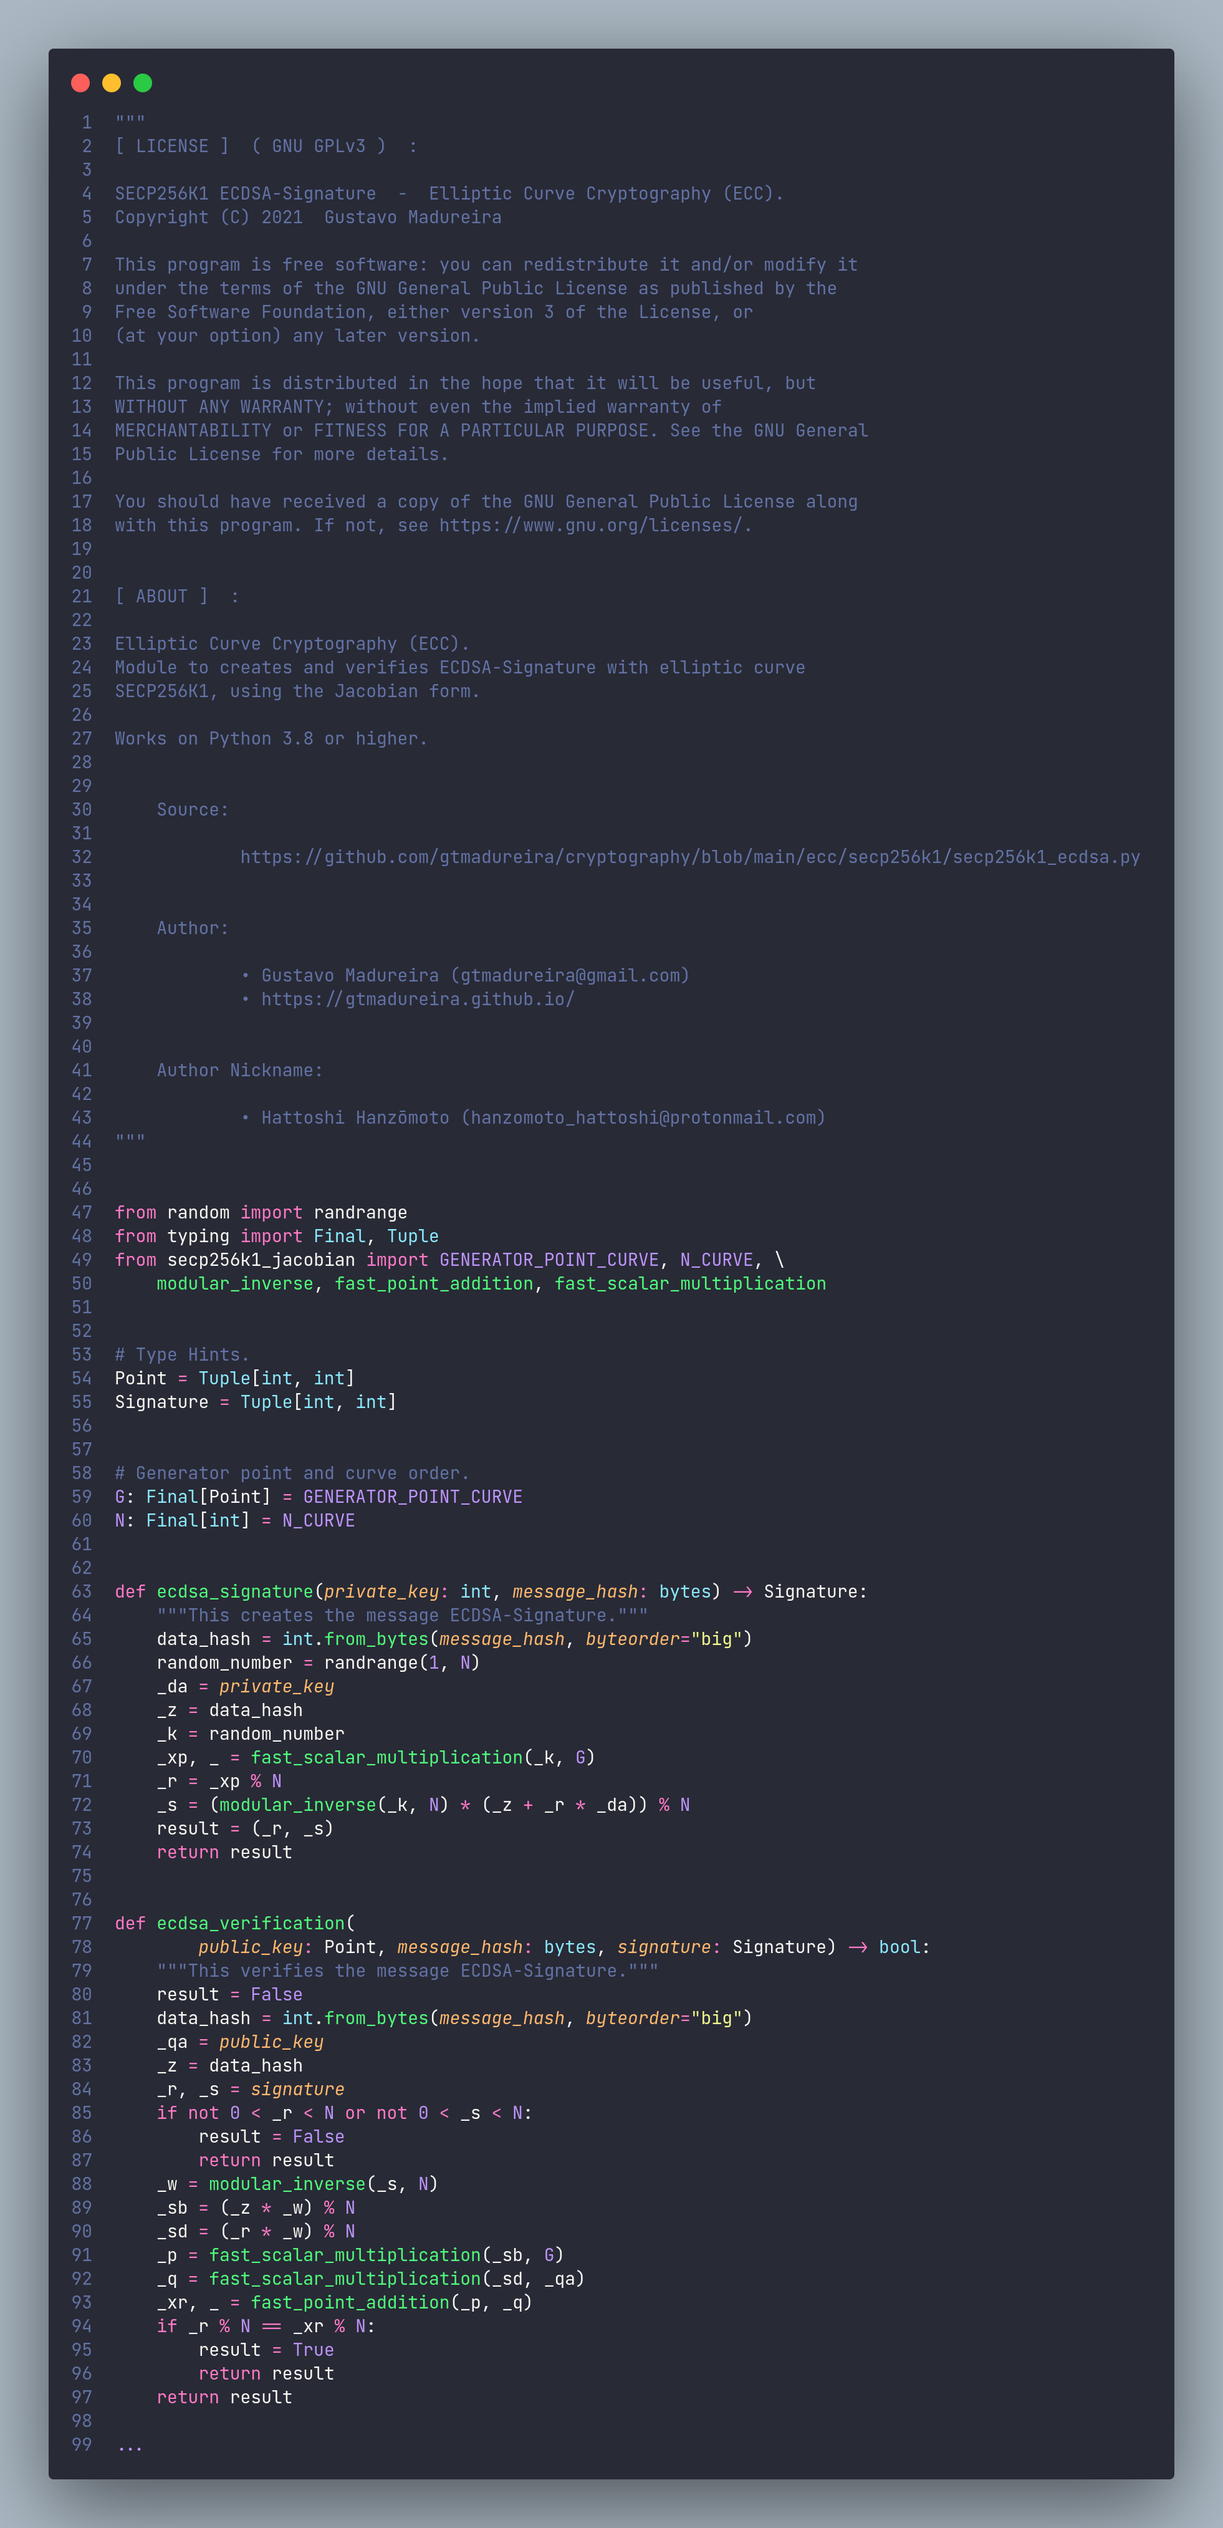
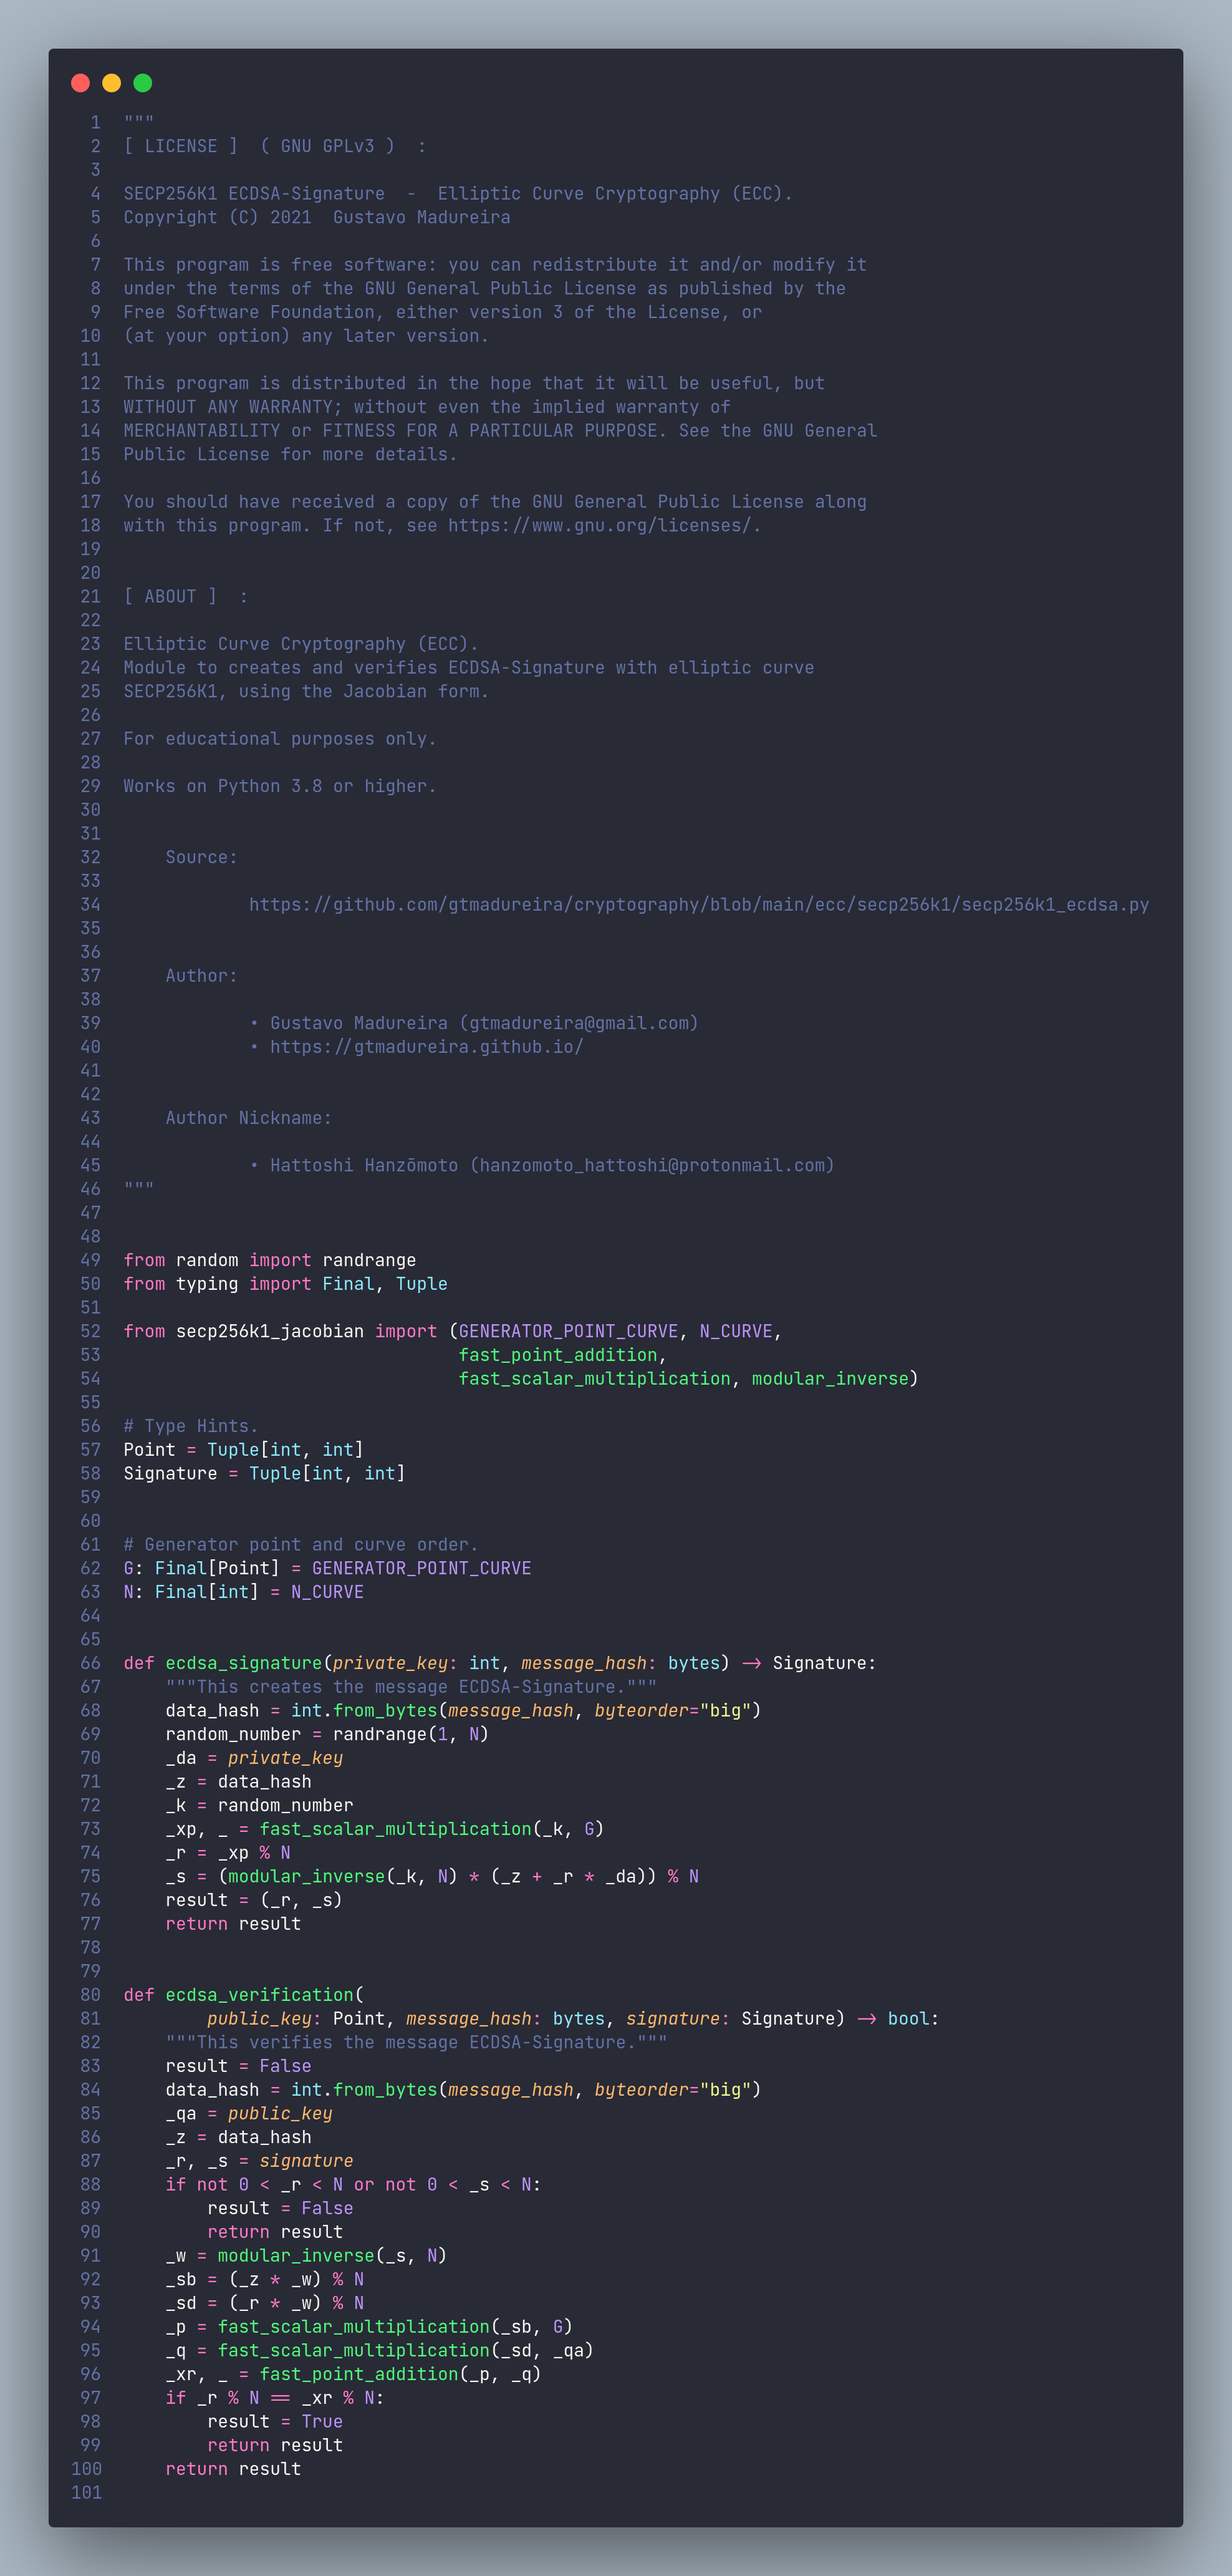
Elliptic Curve Cryptography (ECC), with curve secp256k1.

diff --git a/ecc/secp256k1/secp256k1_jacobian.py b/ecc/secp256k1/secp256k1_jacobian.py
@@ -31,6 +31,8 @@ the Jacobian form.
 
 (Curve used in cryptocurrencies such as Bitcoin, Ethereum, etc...)
 
+For educational purposes only.
+
 Works on Python 3.8 or higher.
 
 
@@ -52,7 +54,6 @@ Works on Python 3.8 or higher.
 
 
 from typing import Final, Tuple
-
 
 # Type Hints.
 Point = Tuple[int, int]
@@ -125,7 +126,8 @@ def is_infinite(point: Point) -> bool:
     Returns True if the point is at infinity on the elliptic curve,
     otherwise it returns False.
     """
-    result = point == POINT_INFINITY_CURVE or 0 in point
+    _xp, _ = point
+    result = point == POINT_INFINITY_CURVE or _xp == 0
     return result
 
 
@@ -185,8 +187,9 @@ def is_infinite_jacobian(jacobian: JacobianCoordinate) -> bool:
     Returns True if the point is at infinity on the elliptic curve over
     Jacobian coordinate, otherwise it returns False.
     """
-    _, _, _zp = jacobian
-    result = jacobian == POINT_INFINITY_JACOBIAN or _zp == 0
+    _xp, _yp, _zp = jacobian
+    result = jacobian == POINT_INFINITY_JACOBIAN or _zp == 0 and 0 not in (
+        _xp, _yp)
     return result
 
 
@@ -425,6 +428,7 @@ def jacobian_point_addition_mixed(  # pylint: disable=R0914
     """
     assert is_on_curve_jacobian(jacobian_p)
     assert is_on_curve_jacobian(jacobian_q)
+    assert not is_affine_jacobian(jacobian_p)
     assert is_affine_jacobian(jacobian_q)
     _xp, _yp, _zp = jacobian_p
     _xq, _yq, _ = jacobian_q
@@ -455,7 +459,7 @@ def jacobian_point_addition_mixed(  # pylint: disable=R0914
     return result
 
 
-def jacobian_point_addition(  # pylint: disable=R0914, R0911
+def jacobian_point_addition(  # pylint: disable=R0911, R0914, R0915
         jacobian_p: JacobianCoordinate,
         jacobian_q: JacobianCoordinate) -> JacobianCoordinate:
     """
@@ -469,6 +473,11 @@ def jacobian_point_addition(  # pylint: disable=R0914, R0911
     """
     assert is_on_curve_jacobian(jacobian_p)
     assert is_on_curve_jacobian(jacobian_q)
+    if is_infinite_jacobian(jacobian_p) and is_infinite_jacobian(jacobian_q):
+        jacobian_r = POINT_INFINITY_JACOBIAN
+        result = jacobian_r
+        assert is_on_curve_jacobian(result)
+        return result
     if is_infinite_jacobian(jacobian_p):
         jacobian_r = jacobian_q
         result = jacobian_r
@@ -538,6 +547,11 @@ def fast_point_addition(point_p: Point, point_q: Point) -> Point:
     """
     assert is_on_curve(point_p)
     assert is_on_curve(point_q)
+    if is_infinite(point_p) and is_infinite(point_q):
+        point_r = POINT_INFINITY_CURVE
+        result = point_r
+        assert is_on_curve(result)
+        return result
     if is_infinite(point_p):
         point_r = point_q
         result = point_r
@@ -548,7 +562,7 @@ def fast_point_addition(point_p: Point, point_q: Point) -> Point:
         return result
     jacobian_p = to_jacobian(point_p)
     jacobian_q = to_jacobian(point_q)
-    jacobian_r = jacobian_point_addition(jacobian_p, jacobian_q)
+    jacobian_r = jacobian_point_addition_affined_only(jacobian_p, jacobian_q)
     point_r = from_jacobian(jacobian_r)
     result = point_r
     assert is_on_curve(result)
@@ -565,6 +579,8 @@ def fast_scalar_multiplication(scalar: int, point: Point) -> Point:
     - Point is defined as Jacobian and Current is defined as
     New-Point.
     """
+    # *     [ SCALAR VERIFICATION ]
+
     assert is_on_curve(point)
     if scalar in (0, N_CURVE) or is_infinite(point):
         new_point = POINT_INFINITY_CURVE
@@ -579,6 +595,8 @@ def fast_scalar_multiplication(scalar: int, point: Point) -> Point:
         result = new_point
         return result
 
+    # *     [ SCALAR PREPARATION ]
+
     # *  -> The next variable below, will be assigned from the convert
     # *     the scalar (represented as an integer) to string objects as
     # *     bits ("0" or "1"), and store them inside a
@@ -589,6 +607,8 @@ def fast_scalar_multiplication(scalar: int, point: Point) -> Point:
 
     jacobian = to_jacobian(point)
     current = jacobian
+
+    # *     [ SCALAR MULTIPLICATION ]
 
     # *  -> For-Loop below, working from left-to-right.
     # *  -> "AND IGNORING" the Most Significant Bit (MSB) from incoming
@@ -613,11 +633,16 @@ if __name__ == "__main__":
         assert (4 * pow(A_CURVE, 3, FP_CURVE) + 27 *
                 pow(B_CURVE, 2, FP_CURVE)) % FP_CURVE != 0
 
+        # Tests if the generator point lies on the elliptic curve.
+        assert is_on_curve(GENERATOR_POINT_CURVE)
+
         # Elliptic curve scalar multiplication test.
-        from os import name as system_type, system as run_command
-        from time import perf_counter
+        from os import name as system_type
+        from os import system as run_command
         from random import randrange
-        from colorama import just_fix_windows_console  # type: ignore
+        from time import perf_counter
+
+        from colorama import just_fix_windows_console
 
         # Define clear_screen function.
         def clear_screen() -> None:
@@ -661,7 +686,7 @@ if __name__ == "__main__":
             This is free software, and you are welcome to redistribute it
             under certain conditions.
 
-            \33[1;7m *** FOR EDUCATIONAL PURPOSES ONLY *** \033[0m
+            \33[1;7m[ *** FOR EDUCATIONAL PURPOSES ONLY *** ]\033[0m
 
 
                \033[92mPoint Number: {data[0]}

diff --git a/ecc/secp256k1/secp256k1_weierstrass.py b/ecc/secp256k1/secp256k1_weierstrass.py
@@ -31,6 +31,8 @@ the Weierstrass form.
 
 (Curve used in cryptocurrencies such as Bitcoin, Ethereum, etc...)
 
+For educational purposes only.
+
 Works on Python 3.8 or higher.
 
 
@@ -52,7 +54,6 @@ Works on Python 3.8 or higher.
 
 
 from typing import Final, Tuple
-
 
 # Type Hints.
 Point = Tuple[int, int]
@@ -119,7 +120,8 @@ def is_infinite(point: Point) -> bool:
     Returns True if the point is at infinity on the elliptic curve,
     otherwise it returns False.
     """
-    result = point == POINT_INFINITY_CURVE or 0 in point
+    _xp, _ = point
+    result = point == POINT_INFINITY_CURVE or _xp == 0
     return result
 
 
@@ -205,6 +207,11 @@ def ec_point_addition(point_p: Point, point_q: Point) -> Point:
     """
     assert is_on_curve(point_p)
     assert is_on_curve(point_q)
+    if is_infinite(point_p) and is_infinite(point_q):
+        point_r = POINT_INFINITY_CURVE
+        result = point_r
+        assert is_on_curve(result)
+        return result
     if is_infinite(point_p):
         point_r = point_q
         result = point_r
@@ -242,6 +249,8 @@ def ec_point_multiplication(scalar: int, point: Point) -> Point:
     - Point-P is defined as Point and Point-Q is defined as
     Current.
     """
+    # *     [ SCALAR VERIFICATION ]
+
     assert is_on_curve(point)
     if scalar in (0, N_CURVE) or is_infinite(point):
         new_point = POINT_INFINITY_CURVE
@@ -256,6 +265,8 @@ def ec_point_multiplication(scalar: int, point: Point) -> Point:
         result = new_point
         return result
 
+    # *     [ SCALAR PREPARATION ]
+
     # *  -> The next variable below, will be assigned from the convert
     # *     the scalar (represented as an integer) to string objects as
     # *     bits ("0" or "1"), and store them inside a
@@ -265,6 +276,8 @@ def ec_point_multiplication(scalar: int, point: Point) -> Point:
     scalar_bits: Final[ScalarBinary] = tuple(bin(scalar)[2:])
 
     current = point
+
+    # *     [ SCALAR MULTIPLICATION ]
 
     # *  -> For-Loop below, working from left-to-right.
     # *  -> "AND IGNORING" the Most Significant Bit (MSB) from incoming
@@ -289,11 +302,16 @@ if __name__ == "__main__":
         assert (4 * pow(A_CURVE, 3, FP_CURVE) + 27 *
                 pow(B_CURVE, 2, FP_CURVE)) % FP_CURVE != 0
 
+        # Tests if the generator point lies on the elliptic curve.
+        assert is_on_curve(GENERATOR_POINT_CURVE)
+
         # Elliptic curve scalar multiplication test.
-        from os import name as system_type, system as run_command
-        from time import perf_counter
+        from os import name as system_type
+        from os import system as run_command
         from random import randrange
-        from colorama import just_fix_windows_console  # type: ignore
+        from time import perf_counter
+
+        from colorama import just_fix_windows_console
 
         # Define clear_screen function.
         def clear_screen() -> None:
@@ -337,7 +355,7 @@ if __name__ == "__main__":
            This is free software, and you are welcome to redistribute it
            under certain conditions.
 
-           \33[1;7m *** FOR EDUCATIONAL PURPOSES ONLY *** \033[0m
+           \33[1;7m[ *** FOR EDUCATIONAL PURPOSES ONLY *** ]\033[0m
 
 
               \033[92mPoint Number: {data[0]}

diff --git a/ecc/secp256k1/secp256k1_ecdsa.py b/ecc/secp256k1/secp256k1_ecdsa.py
@@ -24,6 +24,8 @@ Elliptic Curve Cryptography (ECC).
 Module to creates and verifies ECDSA-Signature with elliptic curve
 SECP256K1, using the Jacobian form.
 
+For educational purposes only.
+
 Works on Python 3.8 or higher.
 
 
@@ -46,9 +48,10 @@ Works on Python 3.8 or higher.
 
 from random import randrange
 from typing import Final, Tuple
-from secp256k1_jacobian import GENERATOR_POINT_CURVE, N_CURVE, \
-    modular_inverse, fast_point_addition, fast_scalar_multiplication
 
+from secp256k1_jacobian import (GENERATOR_POINT_CURVE, N_CURVE,
+                                fast_point_addition,
+                                fast_scalar_multiplication, modular_inverse)
 
 # Type Hints.
 Point = Tuple[int, int]
@@ -101,8 +104,10 @@ if __name__ == "__main__":
 
     # ECDSA-Signature test.
     from hashlib import sha256
-    from secp256k1_jacobian import x_coordinate, y_coordinate
-    from colorama import just_fix_windows_console  # type: ignore
+
+    from colorama import just_fix_windows_console
+    from secp256k1_jacobian import x_coordinate  # pylint: disable=C0412
+    from secp256k1_jacobian import y_coordinate
 
     # Get ANSI escapes from color scheme to work on Windows operating
     # system.
@@ -140,7 +145,7 @@ if __name__ == "__main__":
             This is free software, and you are welcome to redistribute it
             under certain conditions.
 
-            \33[1;7m *** FOR EDUCATIONAL PURPOSES ONLY *** \033[0m
+            \33[1;7m[ *** FOR EDUCATIONAL PURPOSES ONLY *** ]\033[0m
 
 
                 Private Key: {DATA[0]}

diff --git a/ecc/secp256k1/secp256k1_test_generator.py b/ecc/secp256k1/secp256k1_test_generator.py
@@ -1,15 +1,18 @@
 # pylint: disable=C0114
 
 
+# For educational purposes only.
+
+
 # Works on Python 3.8 or higher.
 
 
 from typing import Final, Tuple
-from colorama import just_fix_windows_console  # type: ignore
-from secp256k1_jacobian import fast_scalar_multiplication
-from secp256k1_weierstrass import GENERATOR_POINT_CURVE, has_even_y, \
-    ec_point_multiplication
 
+from colorama import just_fix_windows_console
+from secp256k1_jacobian import fast_scalar_multiplication
+from secp256k1_weierstrass import (GENERATOR_POINT_CURVE,
+                                   ec_point_multiplication, has_even_y)
 
 Point = Tuple[int, int]
 
